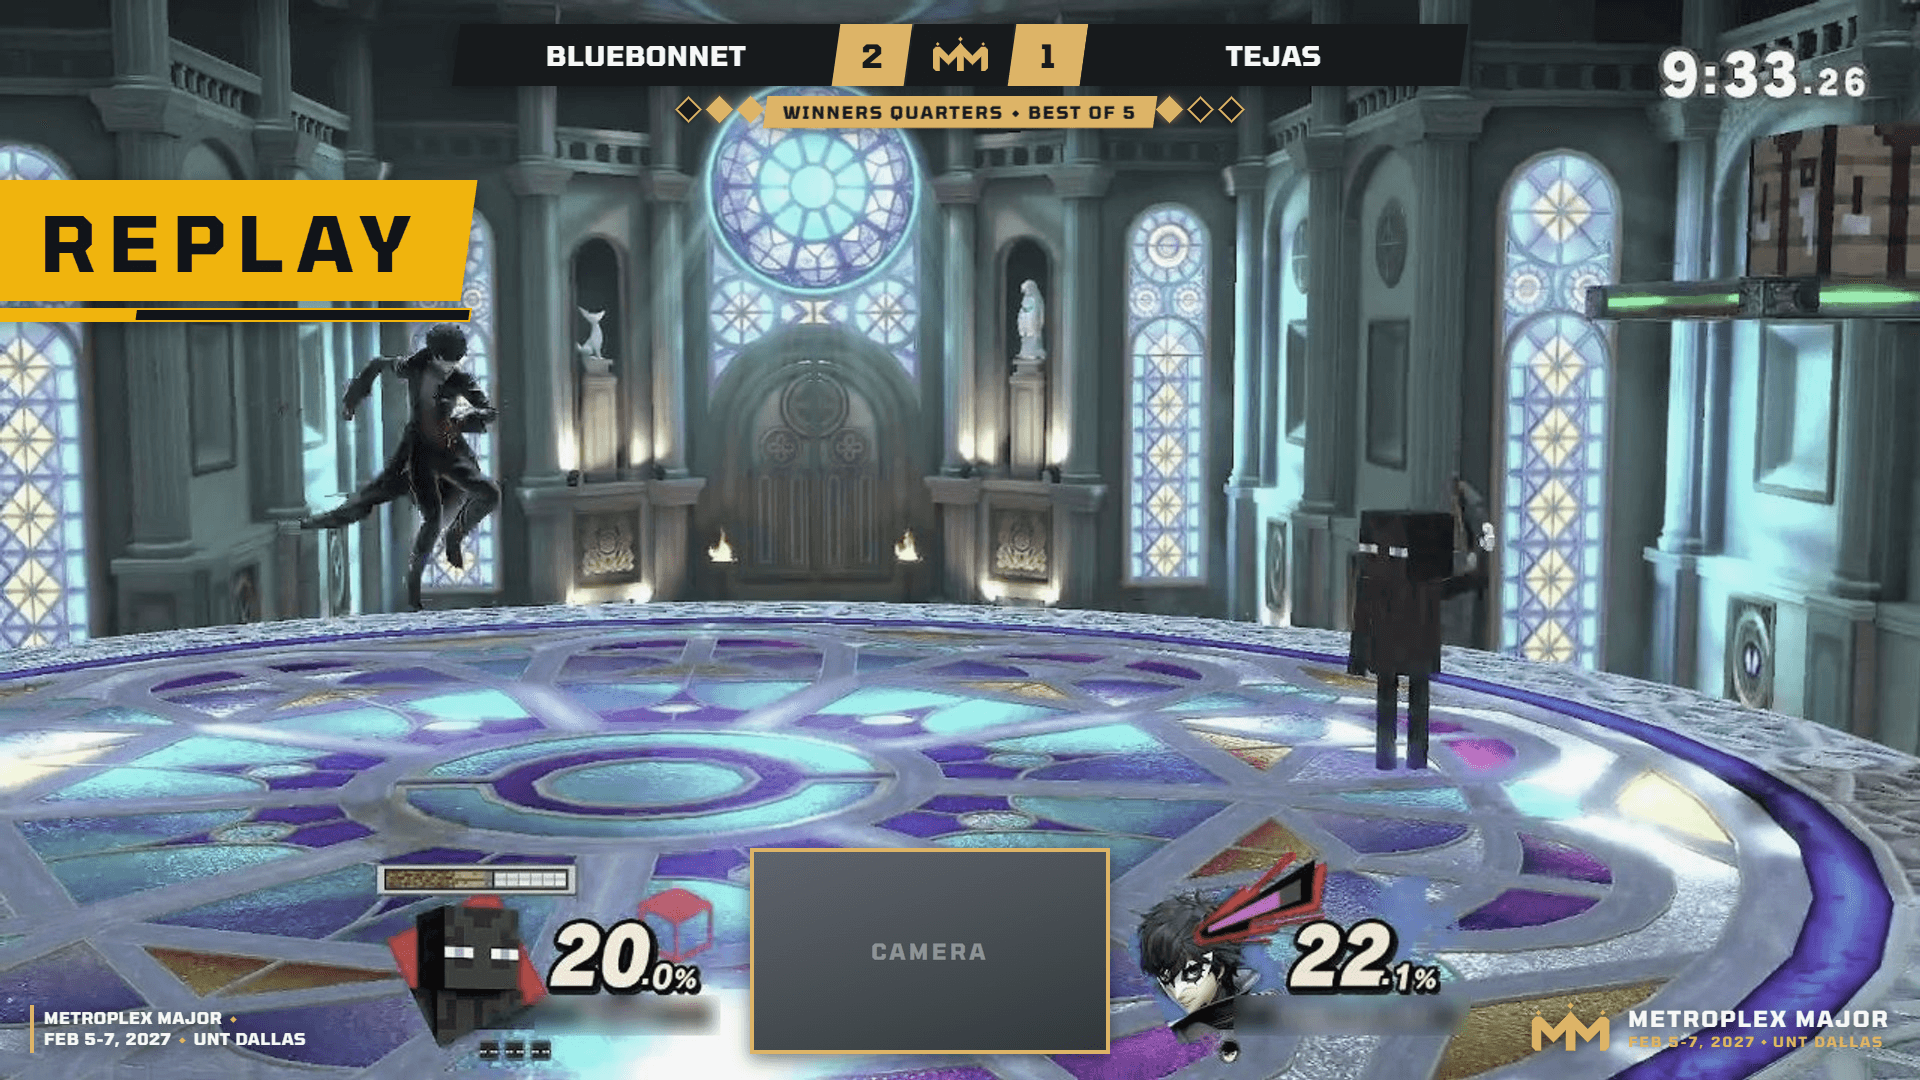
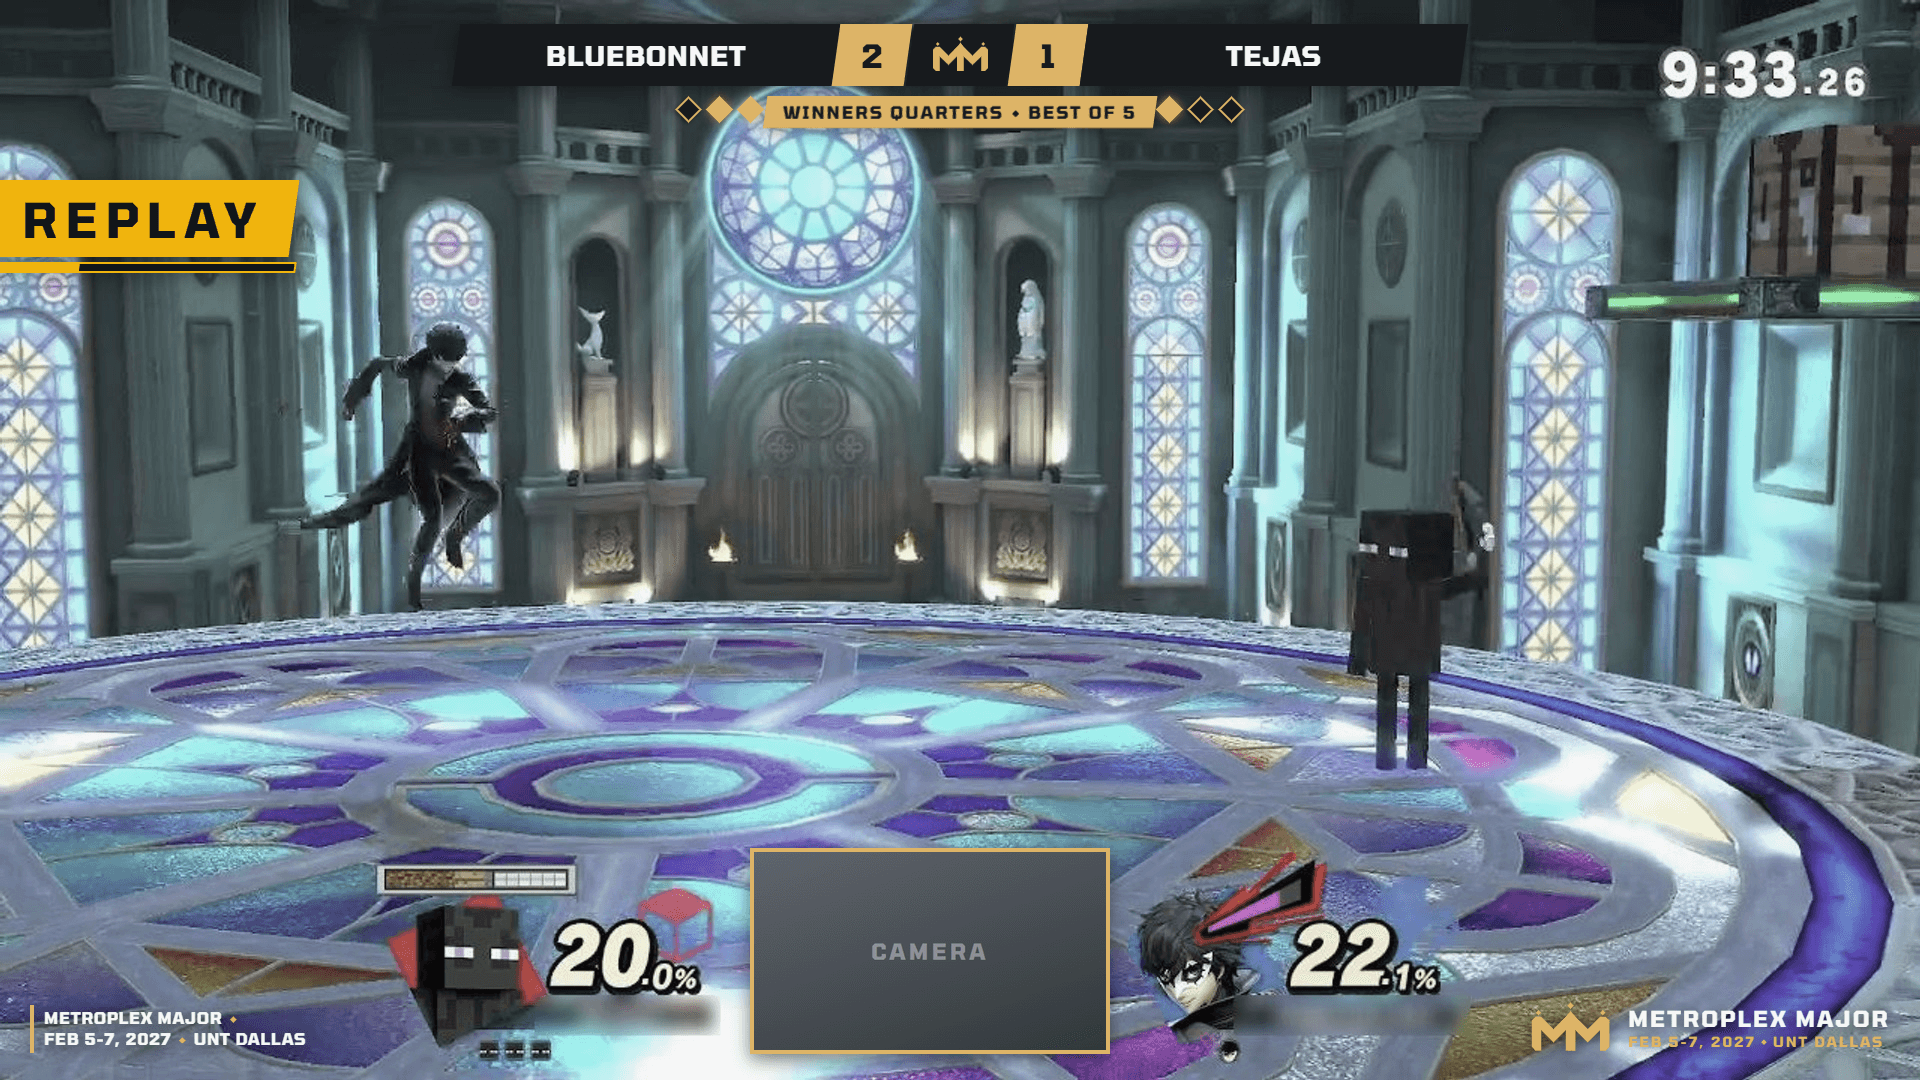
Smaller REPLAY badge on air
The tag drops from 76 px to 48 px type with tighter padding (about two
thirds of the old size) and the countdown bar thins to match.

Changed region(s): [[0.0, 0.1528, 0.25, 0.3361], [0.75, 0.6722, 0.7812, 0.7028]]

diff --git a/public/replay.html b/public/replay.html
@@ -18,11 +18,11 @@
   #badge { position: absolute; left: -24px; top: 180px; display: flex; flex-direction: column; align-items: stretch; filter: drop-shadow(0 4px 10px rgba(0,0,0,.45)); }
   #badge.in { animation: slide .45s cubic-bezier(.2,.9,.25,1) both; }
   @keyframes slide { from { transform: translateX(-110%); } to { transform: translateX(0); } }
-  .tag { transform: skewX(-12deg); background: #FF3D2E; color: #fff; padding: 16px 46px 14px 64px; font-size: 76px; font-weight: 700; letter-spacing: .14em; box-shadow: 0 0 0 4px #fff; }
+  .tag { transform: skewX(-12deg); background: #FF3D2E; color: #fff; padding: 10px 30px 9px 46px; font-size: 48px; font-weight: 700; letter-spacing: .14em; box-shadow: 0 0 0 3px #fff; }
   .tag > span { display: inline-block; transform: skewX(12deg); white-space: nowrap; line-height: 1; }
 
   /* Tuesday Takedown: maroon plate in a black frame, belt yellow */
-  :root[data-theme="tt"] .tag { background: linear-gradient(180deg, #7c3749 0%, #6D2E3F 42%, #5f2636 100%); color: #FCE319; box-shadow: 0 0 0 5px #0a0a0a; text-shadow: 0 4px 0 rgba(0,0,0,.55); }
+  :root[data-theme="tt"] .tag { background: linear-gradient(180deg, #7c3749 0%, #6D2E3F 42%, #5f2636 100%); color: #FCE319; box-shadow: 0 0 0 4px #0a0a0a; text-shadow: 0 3px 0 rgba(0,0,0,.55); }
 
   /* Metroplex Major: Major Gold on Midnight, Tomorrow */
   :root[data-theme="mm"] body { font-family: 'Tomorrow', Bahnschrift, 'Segoe UI', sans-serif; }
@@ -31,11 +31,11 @@
 
   /* Countdown: a bar under the tag, as wide as it, that drains while the clip plays and is empty as the
      replay ends. Fed by /api/replay/progress (OBS's own position in the clip). */
-  .bar { height: 12px; margin-top: 9px; background: #2a2626; box-shadow: 0 0 0 3px #fff; transform: skewX(-12deg); overflow: hidden; }
+  .bar { height: 8px; margin-top: 7px; background: #2a2626; box-shadow: 0 0 0 2px #fff; transform: skewX(-12deg); overflow: hidden; }
   .bar > i { display: block; height: 100%; background: #FF3D2E; transform-origin: left center; transform: scaleX(1); }
-  :root[data-theme="tt"] .bar { background: #0a0a0a; box-shadow: 0 0 0 3px #F2B53A; }
+  :root[data-theme="tt"] .bar { background: #0a0a0a; box-shadow: 0 0 0 2px #F2B53A; }
   :root[data-theme="tt"] .bar > i { background: #FCE319; }
-  :root[data-theme="mm"] .bar { background: #11151A; box-shadow: 0 0 0 2px #F0B40D; transform: skewX(-8deg); height: 10px; }
+  :root[data-theme="mm"] .bar { background: #11151A; box-shadow: 0 0 0 2px #F0B40D; transform: skewX(-8deg); height: 7px; }
   :root[data-theme="mm"] .bar > i { background: #F0B40D; }
 </style>
 <script src="/theme.js"></script>
